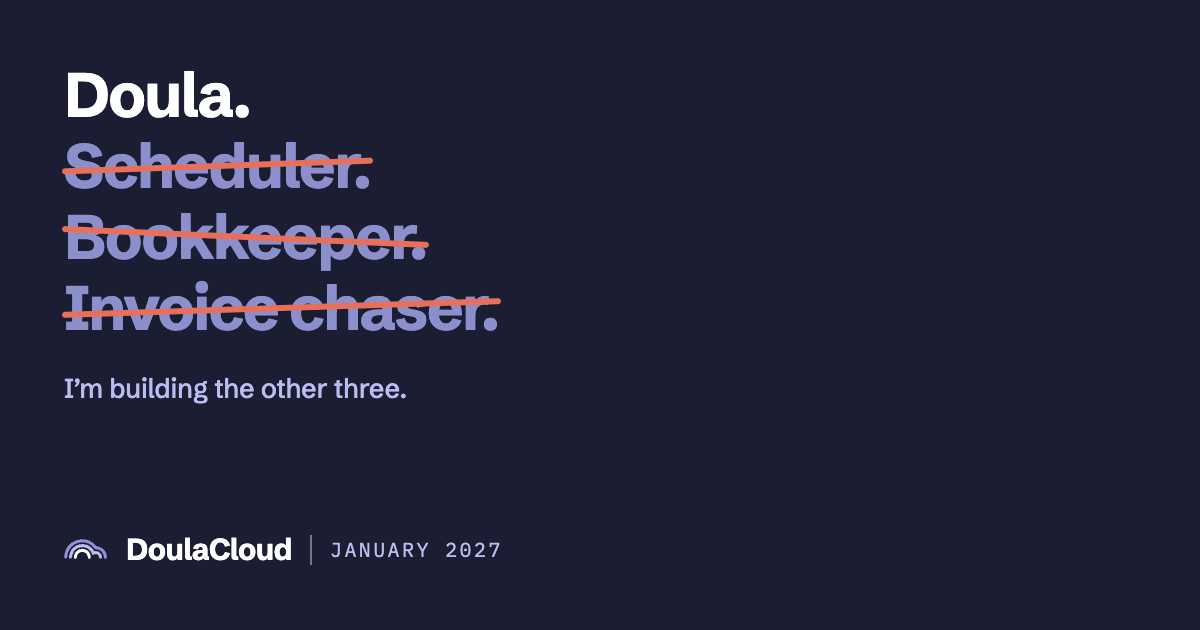
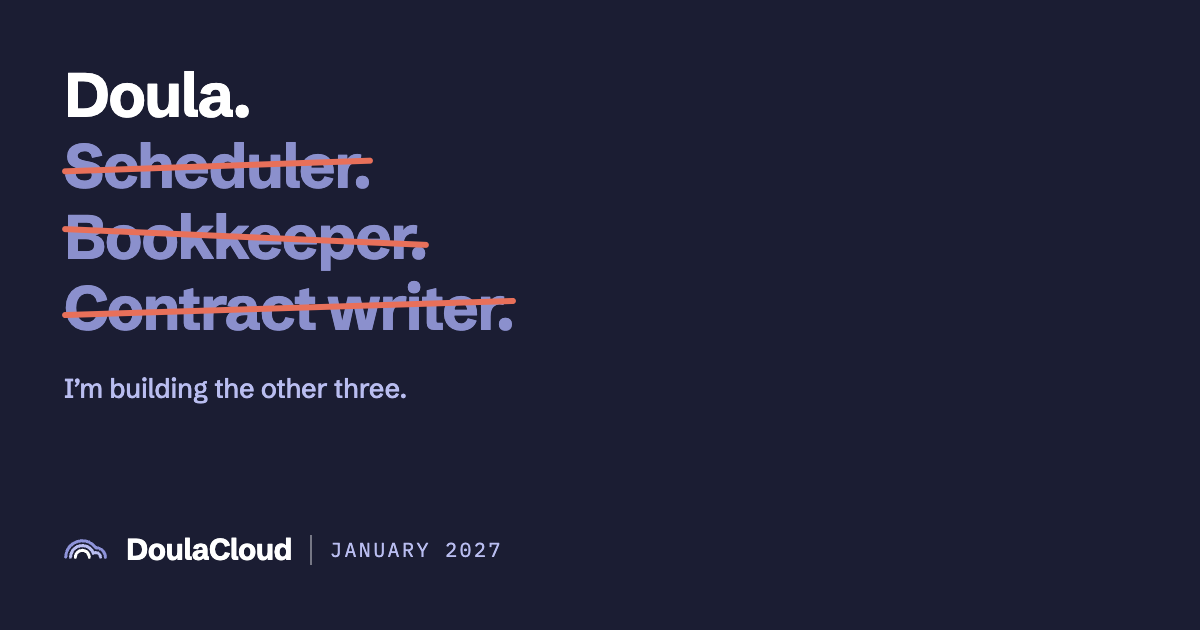
Drop Invoice chaser. for Contract writer. and cut the finals (#358)
"Chaser" carries a grasping note the brand does not want, and dropping it also
clears the redundancy: the three struck roles are now time, money and paper
rather than time, money and money.

Ordered short to long, so the strikes read as a rising diagonal.

Cards A, B and B-coral re-cut at 1200x630.

Changed region(s): [[0.0308, 0.4524, 0.4317, 0.5429]]

diff --git a/og-final.html b/og-final.html
@@ -76,37 +76,36 @@
 <div class="wrap">
   <div>
     <h1>The two cards</h1>
-    <p class="lede">Two arguments, not two designs — which is what makes them worth testing against each other. <strong>A</strong> names a taker and the strike performs the handover. <strong>B</strong> names no taker and drops the strike, because a line saying these were never the job argues with a mark saying these get removed.</p>
-    <p class="lede">On B the three still recede in colour. Without that, four equal lines read as a list of things the product does, which is the opposite of the point &mdash; <em>Doula.</em> has to stay the only bright word for the sentence to have anything to refer to.</p>
+    <p class="lede">The list is <strong>Doula. / Scheduler. / Bookkeeper. / Contract writer.</strong> &mdash; time, money, paper, no two roles covering the same ground. <em>Invoice chaser.</em> is gone: <em>chaser</em> carries a grasping note this brand does not want, and the three roles now step up in length so the strikes read as a rising diagonal rather than jumping about.</p>
+    <p class="lede">The two cards differ in one thing only, which is what makes them worth testing: <strong>whether the card names a taker.</strong></p>
   </div>
   <hr>
 
   <div>
     <div class="tag">Card A</div>
     <h2>&ldquo;I&rsquo;m building the other three.&rdquo; <span class="pill">Names a taker &middot; struck</span></h2>
-    <p class="note">Five words, true at the moment of reading, promises nothing. The coral strike does the handover and the line says who is doing it.</p>
-    <div class="frame"><div class="card"><div class="onink pad"><div><div class="jobs"><div class="job">Doula.</div><div class="job job--out" style="--strike:#e8705a;--w:6px;--tilt:-2deg">Scheduler.</div><div class="job job--out" style="--strike:#e8705a;--w:6px;--tilt:2.5deg">Bookkeeper.</div><div class="job job--out" style="--strike:#e8705a;--w:6px;--tilt:-1.8deg">Invoice chaser.</div></div><div class="payoff">I&rsquo;m building the other three.</div></div><div class="foot"><svg width="44" viewBox="48 76 202 94" aria-hidden="true"><g fill="none" stroke-linecap="round" stroke-width="14"><path d="M56 160 A76 76 0 0 1 193.97 116 A44 44 0 0 1 238 160" stroke="#8e93da"></path><path d="M78 160 A54 54 0 0 1 182.61 141.18 A22 22 0 0 1 216 160" stroke="#b9bdf0"></path><path d="M100 160 A32 32 0 0 1 164 160" stroke="#ffffff"></path></g></svg><div class="wordmark">DoulaCloud</div><div class="bar"></div><div class="date">January 2027</div></div></div></div></div>
+    <p class="note">The coral strike performs the handover; the line says who is doing it. Present tense that is true at the moment of reading, and it promises nothing.</p>
+    <div class="frame"><div class="card"><div class="onink pad"><div><div class="jobs"><div class="job">Doula.</div><div class="job job--out" style="--strike:#e8705a;--w:6px;--tilt:-2deg">Scheduler.</div><div class="job job--out" style="--strike:#e8705a;--w:6px;--tilt:2.5deg">Bookkeeper.</div><div class="job job--out" style="--strike:#e8705a;--w:6px;--tilt:-1.8deg">Contract writer.</div></div><div class="payoff">I&rsquo;m building the other three.</div></div><div class="foot"><svg width="44" viewBox="48 76 202 94" aria-hidden="true"><g fill="none" stroke-linecap="round" stroke-width="14"><path d="M56 160 A76 76 0 0 1 193.97 116 A44 44 0 0 1 238 160" stroke="#8e93da"></path><path d="M78 160 A54 54 0 0 1 182.61 141.18 A22 22 0 0 1 216 160" stroke="#b9bdf0"></path><path d="M100 160 A32 32 0 0 1 164 160" stroke="#ffffff"></path></g></svg><div class="wordmark">DoulaCloud</div><div class="bar"></div><div class="date">January 2027</div></div></div></div></div>
   </div>
 
   <div>
     <div class="tag">Card B</div>
     <h2>&ldquo;Three of these were never the job.&rdquo; <span class="pill">No taker &middot; unstruck</span></h2>
-    <p class="note">Past tense, so a capability claim is structurally impossible. It makes an argument the picture cannot: not that her work is hard, but that three of these were never her work. This is the version the doula said she would post into the group herself.</p>
-    <div class="frame"><div class="card"><div class="onink pad"><div><div class="jobs"><div class="job">Doula.</div><div class="job" style="color:#8b90cd">Scheduler.</div><div class="job" style="color:#8b90cd">Bookkeeper.</div><div class="job" style="color:#8b90cd">Invoice chaser.</div></div><div class="payoff">Three of these were never the job.</div></div><div class="foot"><svg width="44" viewBox="48 76 202 94" aria-hidden="true"><g fill="none" stroke-linecap="round" stroke-width="14"><path d="M56 160 A76 76 0 0 1 193.97 116 A44 44 0 0 1 238 160" stroke="#8e93da"></path><path d="M78 160 A54 54 0 0 1 182.61 141.18 A22 22 0 0 1 216 160" stroke="#b9bdf0"></path><path d="M100 160 A32 32 0 0 1 164 160" stroke="#ffffff"></path></g></svg><div class="wordmark">DoulaCloud</div><div class="bar"></div><div class="date">January 2027</div></div></div></div></div>
+    <p class="note">No strike, because a line saying these were never the job argues with a mark saying these get removed. Past tense makes a capability claim structurally impossible. The three roles still recede, or four equal lines read as a feature list.</p>
+    <div class="frame"><div class="card"><div class="onink pad"><div><div class="jobs"><div class="job">Doula.</div><div class="job" style="color:#8b90cd">Scheduler.</div><div class="job" style="color:#8b90cd">Bookkeeper.</div><div class="job" style="color:#8b90cd">Contract writer.</div></div><div class="payoff">Three of these were never the job.</div></div><div class="foot"><svg width="44" viewBox="48 76 202 94" aria-hidden="true"><g fill="none" stroke-linecap="round" stroke-width="14"><path d="M56 160 A76 76 0 0 1 193.97 116 A44 44 0 0 1 238 160" stroke="#8e93da"></path><path d="M78 160 A54 54 0 0 1 182.61 141.18 A22 22 0 0 1 216 160" stroke="#b9bdf0"></path><path d="M100 160 A32 32 0 0 1 164 160" stroke="#ffffff"></path></g></svg><div class="wordmark">DoulaCloud</div><div class="bar"></div><div class="date">January 2027</div></div></div></div></div>
   </div>
 
   <div>
     <div class="tag">Card B, variant</div>
-    <h2>Same, with the line in coral <span class="pill">Keeps the family</span></h2>
-    <p class="note">Dropping the strike also drops the only warm colour on the card, so B and A stop looking like siblings. Putting the payoff in coral gives the accent back and puts it on the one sentence doing the work.</p>
-    <div class="frame"><div class="card"><div class="onink pad"><div><div class="jobs"><div class="job">Doula.</div><div class="job" style="color:#8b90cd">Scheduler.</div><div class="job" style="color:#8b90cd">Bookkeeper.</div><div class="job" style="color:#8b90cd">Invoice chaser.</div></div><div class="payoff payoff--coral">Three of these were never the job.</div></div><div class="foot"><svg width="44" viewBox="48 76 202 94" aria-hidden="true"><g fill="none" stroke-linecap="round" stroke-width="14"><path d="M56 160 A76 76 0 0 1 193.97 116 A44 44 0 0 1 238 160" stroke="#8e93da"></path><path d="M78 160 A54 54 0 0 1 182.61 141.18 A22 22 0 0 1 216 160" stroke="#b9bdf0"></path><path d="M100 160 A32 32 0 0 1 164 160" stroke="#ffffff"></path></g></svg><div class="wordmark">DoulaCloud</div><div class="bar"></div><div class="date">January 2027</div></div></div></div></div>
+    <h2>Same, line in coral <span class="pill">Keeps the family</span></h2>
+    <p class="note">Dropping the strike drops the only warm colour, so A and B stop reading as siblings. This puts the accent back, on the one sentence doing the work.</p>
+    <div class="frame"><div class="card"><div class="onink pad"><div><div class="jobs"><div class="job">Doula.</div><div class="job" style="color:#8b90cd">Scheduler.</div><div class="job" style="color:#8b90cd">Bookkeeper.</div><div class="job" style="color:#8b90cd">Contract writer.</div></div><div class="payoff payoff--coral">Three of these were never the job.</div></div><div class="foot"><svg width="44" viewBox="48 76 202 94" aria-hidden="true"><g fill="none" stroke-linecap="round" stroke-width="14"><path d="M56 160 A76 76 0 0 1 193.97 116 A44 44 0 0 1 238 160" stroke="#8e93da"></path><path d="M78 160 A54 54 0 0 1 182.61 141.18 A22 22 0 0 1 216 160" stroke="#b9bdf0"></path><path d="M100 160 A32 32 0 0 1 164 160" stroke="#ffffff"></path></g></svg><div class="wordmark">DoulaCloud</div><div class="bar"></div><div class="date">January 2027</div></div></div></div></div>
   </div>
   <hr>
 
   <div>
-    <h2>Side by side, in the feed</h2>
-    <p class="note">This is the comparison the A/B test is actually running.</p>
-    <div class="feed"><div class="feedcol"><div class="post"><div class="top"><span class="who">Doula Support Network</span> <span class="when">· 21:14 · card A</span></div><div class="say">Someone finally building for the admin side of this work.</div><div class="og"><div class="frame"><div class="card"><div class="onink pad"><div><div class="jobs"><div class="job">Doula.</div><div class="job job--out" style="--strike:#e8705a;--w:6px;--tilt:-2deg">Scheduler.</div><div class="job job--out" style="--strike:#e8705a;--w:6px;--tilt:2.5deg">Bookkeeper.</div><div class="job job--out" style="--strike:#e8705a;--w:6px;--tilt:-1.8deg">Invoice chaser.</div></div><div class="payoff">I&rsquo;m building the other three.</div></div><div class="foot"><svg width="44" viewBox="48 76 202 94" aria-hidden="true"><g fill="none" stroke-linecap="round" stroke-width="14"><path d="M56 160 A76 76 0 0 1 193.97 116 A44 44 0 0 1 238 160" stroke="#8e93da"></path><path d="M78 160 A54 54 0 0 1 182.61 141.18 A22 22 0 0 1 216 160" stroke="#b9bdf0"></path><path d="M100 160 A32 32 0 0 1 164 160" stroke="#ffffff"></path></g></svg><div class="wordmark">DoulaCloud</div><div class="bar"></div><div class="date">January 2027</div></div></div></div></div></div><div class="meta"><div class="dom">doula.cloud</div><div class="tit">DoulaCloud — opens January 2027</div><div class="des">One place for clients, visits, and invoices, solo or in an agency.</div></div></div><div class="post"><div class="top"><span class="who">Doula Support Network</span> <span class="when">· 21:14 · card B</span></div><div class="say">Someone finally building for the admin side of this work.</div><div class="og"><div class="frame"><div class="card"><div class="onink pad"><div><div class="jobs"><div class="job">Doula.</div><div class="job" style="color:#8b90cd">Scheduler.</div><div class="job" style="color:#8b90cd">Bookkeeper.</div><div class="job" style="color:#8b90cd">Invoice chaser.</div></div><div class="payoff">Three of these were never the job.</div></div><div class="foot"><svg width="44" viewBox="48 76 202 94" aria-hidden="true"><g fill="none" stroke-linecap="round" stroke-width="14"><path d="M56 160 A76 76 0 0 1 193.97 116 A44 44 0 0 1 238 160" stroke="#8e93da"></path><path d="M78 160 A54 54 0 0 1 182.61 141.18 A22 22 0 0 1 216 160" stroke="#b9bdf0"></path><path d="M100 160 A32 32 0 0 1 164 160" stroke="#ffffff"></path></g></svg><div class="wordmark">DoulaCloud</div><div class="bar"></div><div class="date">January 2027</div></div></div></div></div></div><div class="meta"><div class="dom">doula.cloud</div><div class="tit">DoulaCloud — opens January 2027</div><div class="des">One place for clients, visits, and invoices, solo or in an agency.</div></div></div><div class="post"><div class="top"><span class="who">Doula Support Network</span> <span class="when">· 21:14 · card B, coral line</span></div><div class="say">Someone finally building for the admin side of this work.</div><div class="og"><div class="frame"><div class="card"><div class="onink pad"><div><div class="jobs"><div class="job">Doula.</div><div class="job" style="color:#8b90cd">Scheduler.</div><div class="job" style="color:#8b90cd">Bookkeeper.</div><div class="job" style="color:#8b90cd">Invoice chaser.</div></div><div class="payoff payoff--coral">Three of these were never the job.</div></div><div class="foot"><svg width="44" viewBox="48 76 202 94" aria-hidden="true"><g fill="none" stroke-linecap="round" stroke-width="14"><path d="M56 160 A76 76 0 0 1 193.97 116 A44 44 0 0 1 238 160" stroke="#8e93da"></path><path d="M78 160 A54 54 0 0 1 182.61 141.18 A22 22 0 0 1 216 160" stroke="#b9bdf0"></path><path d="M100 160 A32 32 0 0 1 164 160" stroke="#ffffff"></path></g></svg><div class="wordmark">DoulaCloud</div><div class="bar"></div><div class="date">January 2027</div></div></div></div></div></div><div class="meta"><div class="dom">doula.cloud</div><div class="tit">DoulaCloud — opens January 2027</div><div class="des">One place for clients, visits, and invoices, solo or in an agency.</div></div></div></div></div>
+    <h2>The comparison the test is running</h2>
+    <div class="feed"><div class="feedcol"><div class="post"><div class="top"><span class="who">Doula Support Network</span> <span class="when">· 21:14 · card A</span></div><div class="say">Someone finally building for the admin side of this work.</div><div class="og"><div class="frame"><div class="card"><div class="onink pad"><div><div class="jobs"><div class="job">Doula.</div><div class="job job--out" style="--strike:#e8705a;--w:6px;--tilt:-2deg">Scheduler.</div><div class="job job--out" style="--strike:#e8705a;--w:6px;--tilt:2.5deg">Bookkeeper.</div><div class="job job--out" style="--strike:#e8705a;--w:6px;--tilt:-1.8deg">Contract writer.</div></div><div class="payoff">I&rsquo;m building the other three.</div></div><div class="foot"><svg width="44" viewBox="48 76 202 94" aria-hidden="true"><g fill="none" stroke-linecap="round" stroke-width="14"><path d="M56 160 A76 76 0 0 1 193.97 116 A44 44 0 0 1 238 160" stroke="#8e93da"></path><path d="M78 160 A54 54 0 0 1 182.61 141.18 A22 22 0 0 1 216 160" stroke="#b9bdf0"></path><path d="M100 160 A32 32 0 0 1 164 160" stroke="#ffffff"></path></g></svg><div class="wordmark">DoulaCloud</div><div class="bar"></div><div class="date">January 2027</div></div></div></div></div></div><div class="meta"><div class="dom">doula.cloud</div><div class="tit">DoulaCloud — opens January 2027</div><div class="des">One place for clients, visits, and invoices, solo or in an agency.</div></div></div><div class="post"><div class="top"><span class="who">Doula Support Network</span> <span class="when">· 21:14 · card B</span></div><div class="say">Someone finally building for the admin side of this work.</div><div class="og"><div class="frame"><div class="card"><div class="onink pad"><div><div class="jobs"><div class="job">Doula.</div><div class="job" style="color:#8b90cd">Scheduler.</div><div class="job" style="color:#8b90cd">Bookkeeper.</div><div class="job" style="color:#8b90cd">Contract writer.</div></div><div class="payoff">Three of these were never the job.</div></div><div class="foot"><svg width="44" viewBox="48 76 202 94" aria-hidden="true"><g fill="none" stroke-linecap="round" stroke-width="14"><path d="M56 160 A76 76 0 0 1 193.97 116 A44 44 0 0 1 238 160" stroke="#8e93da"></path><path d="M78 160 A54 54 0 0 1 182.61 141.18 A22 22 0 0 1 216 160" stroke="#b9bdf0"></path><path d="M100 160 A32 32 0 0 1 164 160" stroke="#ffffff"></path></g></svg><div class="wordmark">DoulaCloud</div><div class="bar"></div><div class="date">January 2027</div></div></div></div></div></div><div class="meta"><div class="dom">doula.cloud</div><div class="tit">DoulaCloud — opens January 2027</div><div class="des">One place for clients, visits, and invoices, solo or in an agency.</div></div></div><div class="post"><div class="top"><span class="who">Doula Support Network</span> <span class="when">· 21:14 · card B, coral line</span></div><div class="say">Someone finally building for the admin side of this work.</div><div class="og"><div class="frame"><div class="card"><div class="onink pad"><div><div class="jobs"><div class="job">Doula.</div><div class="job" style="color:#8b90cd">Scheduler.</div><div class="job" style="color:#8b90cd">Bookkeeper.</div><div class="job" style="color:#8b90cd">Contract writer.</div></div><div class="payoff payoff--coral">Three of these were never the job.</div></div><div class="foot"><svg width="44" viewBox="48 76 202 94" aria-hidden="true"><g fill="none" stroke-linecap="round" stroke-width="14"><path d="M56 160 A76 76 0 0 1 193.97 116 A44 44 0 0 1 238 160" stroke="#8e93da"></path><path d="M78 160 A54 54 0 0 1 182.61 141.18 A22 22 0 0 1 216 160" stroke="#b9bdf0"></path><path d="M100 160 A32 32 0 0 1 164 160" stroke="#ffffff"></path></g></svg><div class="wordmark">DoulaCloud</div><div class="bar"></div><div class="date">January 2027</div></div></div></div></div></div><div class="meta"><div class="dom">doula.cloud</div><div class="tit">DoulaCloud — opens January 2027</div><div class="des">One place for clients, visits, and invoices, solo or in an agency.</div></div></div></div></div>
   </div>
 </div>
 <script>

diff --git a/og-export-a.html b/og-export-a.html
@@ -72,4 +72,4 @@
   .tag { font-family: "IBM Plex Mono", monospace; font-size: 11px; letter-spacing: .18em;
          text-transform: uppercase; color: var(--accent); margin-bottom: 2px; }
 </style>
-<div class="frame" style="width:1200px;border:0;border-radius:0;margin:0"><div class="card"><div class="onink pad"><div><div class="jobs"><div class="job">Doula.</div><div class="job job--out" style="--strike:#e8705a;--w:6px;--tilt:-2deg">Scheduler.</div><div class="job job--out" style="--strike:#e8705a;--w:6px;--tilt:2.5deg">Bookkeeper.</div><div class="job job--out" style="--strike:#e8705a;--w:6px;--tilt:-1.8deg">Invoice chaser.</div></div><div class="payoff">I&rsquo;m building the other three.</div></div><div class="foot"><svg width="44" viewBox="48 76 202 94" aria-hidden="true"><g fill="none" stroke-linecap="round" stroke-width="14"><path d="M56 160 A76 76 0 0 1 193.97 116 A44 44 0 0 1 238 160" stroke="#8e93da"></path><path d="M78 160 A54 54 0 0 1 182.61 141.18 A22 22 0 0 1 216 160" stroke="#b9bdf0"></path><path d="M100 160 A32 32 0 0 1 164 160" stroke="#ffffff"></path></g></svg><div class="wordmark">DoulaCloud</div><div class="bar"></div><div class="date">January 2027</div></div></div></div></div><script>document.querySelector(".card").style.transform="scale(1)";</script>
+<div class="frame" style="width:1200px;border:0;border-radius:0;margin:0"><div class="card"><div class="onink pad"><div><div class="jobs"><div class="job">Doula.</div><div class="job job--out" style="--strike:#e8705a;--w:6px;--tilt:-2deg">Scheduler.</div><div class="job job--out" style="--strike:#e8705a;--w:6px;--tilt:2.5deg">Bookkeeper.</div><div class="job job--out" style="--strike:#e8705a;--w:6px;--tilt:-1.8deg">Contract writer.</div></div><div class="payoff">I&rsquo;m building the other three.</div></div><div class="foot"><svg width="44" viewBox="48 76 202 94" aria-hidden="true"><g fill="none" stroke-linecap="round" stroke-width="14"><path d="M56 160 A76 76 0 0 1 193.97 116 A44 44 0 0 1 238 160" stroke="#8e93da"></path><path d="M78 160 A54 54 0 0 1 182.61 141.18 A22 22 0 0 1 216 160" stroke="#b9bdf0"></path><path d="M100 160 A32 32 0 0 1 164 160" stroke="#ffffff"></path></g></svg><div class="wordmark">DoulaCloud</div><div class="bar"></div><div class="date">January 2027</div></div></div></div></div><script>document.querySelector(".card").style.transform="scale(1)";</script>

diff --git a/og-export-b-coral.html b/og-export-b-coral.html
@@ -72,4 +72,4 @@
   .tag { font-family: "IBM Plex Mono", monospace; font-size: 11px; letter-spacing: .18em;
          text-transform: uppercase; color: var(--accent); margin-bottom: 2px; }
 </style>
-<div class="frame" style="width:1200px;border:0;border-radius:0;margin:0"><div class="card"><div class="onink pad"><div><div class="jobs"><div class="job">Doula.</div><div class="job" style="color:#8b90cd">Scheduler.</div><div class="job" style="color:#8b90cd">Bookkeeper.</div><div class="job" style="color:#8b90cd">Invoice chaser.</div></div><div class="payoff payoff--coral">Three of these were never the job.</div></div><div class="foot"><svg width="44" viewBox="48 76 202 94" aria-hidden="true"><g fill="none" stroke-linecap="round" stroke-width="14"><path d="M56 160 A76 76 0 0 1 193.97 116 A44 44 0 0 1 238 160" stroke="#8e93da"></path><path d="M78 160 A54 54 0 0 1 182.61 141.18 A22 22 0 0 1 216 160" stroke="#b9bdf0"></path><path d="M100 160 A32 32 0 0 1 164 160" stroke="#ffffff"></path></g></svg><div class="wordmark">DoulaCloud</div><div class="bar"></div><div class="date">January 2027</div></div></div></div></div><script>document.querySelector(".card").style.transform="scale(1)";</script>
+<div class="frame" style="width:1200px;border:0;border-radius:0;margin:0"><div class="card"><div class="onink pad"><div><div class="jobs"><div class="job">Doula.</div><div class="job" style="color:#8b90cd">Scheduler.</div><div class="job" style="color:#8b90cd">Bookkeeper.</div><div class="job" style="color:#8b90cd">Contract writer.</div></div><div class="payoff payoff--coral">Three of these were never the job.</div></div><div class="foot"><svg width="44" viewBox="48 76 202 94" aria-hidden="true"><g fill="none" stroke-linecap="round" stroke-width="14"><path d="M56 160 A76 76 0 0 1 193.97 116 A44 44 0 0 1 238 160" stroke="#8e93da"></path><path d="M78 160 A54 54 0 0 1 182.61 141.18 A22 22 0 0 1 216 160" stroke="#b9bdf0"></path><path d="M100 160 A32 32 0 0 1 164 160" stroke="#ffffff"></path></g></svg><div class="wordmark">DoulaCloud</div><div class="bar"></div><div class="date">January 2027</div></div></div></div></div><script>document.querySelector(".card").style.transform="scale(1)";</script>

diff --git a/og-export-b.html b/og-export-b.html
@@ -72,4 +72,4 @@
   .tag { font-family: "IBM Plex Mono", monospace; font-size: 11px; letter-spacing: .18em;
          text-transform: uppercase; color: var(--accent); margin-bottom: 2px; }
 </style>
-<div class="frame" style="width:1200px;border:0;border-radius:0;margin:0"><div class="card"><div class="onink pad"><div><div class="jobs"><div class="job">Doula.</div><div class="job" style="color:#8b90cd">Scheduler.</div><div class="job" style="color:#8b90cd">Bookkeeper.</div><div class="job" style="color:#8b90cd">Invoice chaser.</div></div><div class="payoff">Three of these were never the job.</div></div><div class="foot"><svg width="44" viewBox="48 76 202 94" aria-hidden="true"><g fill="none" stroke-linecap="round" stroke-width="14"><path d="M56 160 A76 76 0 0 1 193.97 116 A44 44 0 0 1 238 160" stroke="#8e93da"></path><path d="M78 160 A54 54 0 0 1 182.61 141.18 A22 22 0 0 1 216 160" stroke="#b9bdf0"></path><path d="M100 160 A32 32 0 0 1 164 160" stroke="#ffffff"></path></g></svg><div class="wordmark">DoulaCloud</div><div class="bar"></div><div class="date">January 2027</div></div></div></div></div><script>document.querySelector(".card").style.transform="scale(1)";</script>
+<div class="frame" style="width:1200px;border:0;border-radius:0;margin:0"><div class="card"><div class="onink pad"><div><div class="jobs"><div class="job">Doula.</div><div class="job" style="color:#8b90cd">Scheduler.</div><div class="job" style="color:#8b90cd">Bookkeeper.</div><div class="job" style="color:#8b90cd">Contract writer.</div></div><div class="payoff">Three of these were never the job.</div></div><div class="foot"><svg width="44" viewBox="48 76 202 94" aria-hidden="true"><g fill="none" stroke-linecap="round" stroke-width="14"><path d="M56 160 A76 76 0 0 1 193.97 116 A44 44 0 0 1 238 160" stroke="#8e93da"></path><path d="M78 160 A54 54 0 0 1 182.61 141.18 A22 22 0 0 1 216 160" stroke="#b9bdf0"></path><path d="M100 160 A32 32 0 0 1 164 160" stroke="#ffffff"></path></g></svg><div class="wordmark">DoulaCloud</div><div class="bar"></div><div class="date">January 2027</div></div></div></div></div><script>document.querySelector(".card").style.transform="scale(1)";</script>
